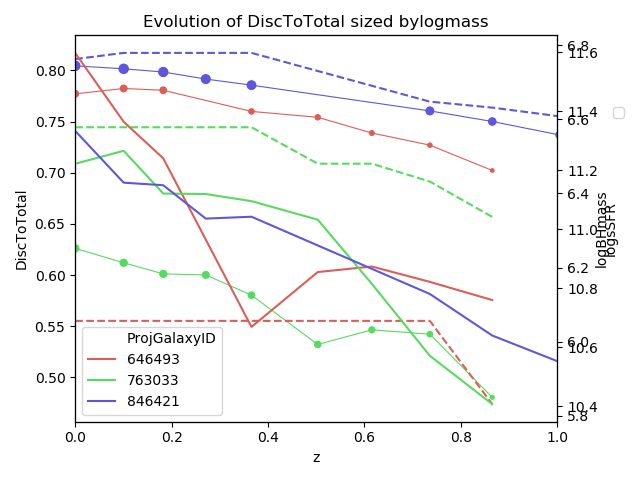
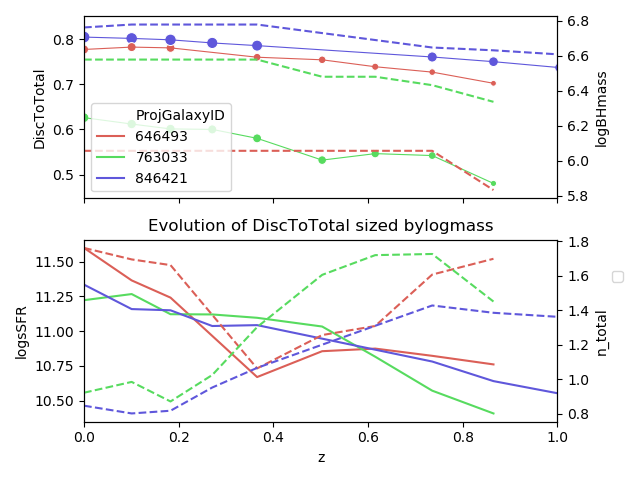
Added in pictorial evolution

diff --git a/EvolutionofGalaxies.py b/EvolutionofGalaxies.py
@@ -14,9 +14,18 @@ from mpl_toolkits.mplot3d import Axes3D
 from matplotlib import cm
 from mpl_toolkits.mplot3d import axes3d
 from scipy.interpolate import griddata 
+from matplotlib.offsetbox import OffsetImage, AnnotationBbox
+from matplotlib.cbook import get_sample_data
+import scipy
+import pylab
+
 
 #sns.set_style('whitegrid')
-
+def logx(x):
+    if x !=0:
+        return np.log10(x)
+    else:
+        return 0
 
 def sigmaclip(image, sigma, box_size):
     #shows relative fluctuations in pixel intensities
@@ -416,31 +425,67 @@ def subplothistograms(df, param1, param2, param3, param4, param5, param6):
     plt.show()
 
 def evolutionplot(df, param, param_size, param2):
-    fig, ax=plt.subplots()
-
-    sns.scatterplot(x='z',y=param, hue='ProjGalaxyID',data=df, size=param_size, palette=sns.color_palette('hls', df.ProjGalaxyID.nunique()), legend=False, ax=ax)
-    sns.lineplot(x='z',y=param, hue='ProjGalaxyID',data=df, palette=sns.color_palette('hls', df.ProjGalaxyID.nunique()), ax=ax,legend=False, linewidth=0.8)
-    ax2=ax.twinx()
-    sns.lineplot(x='z',y=param2, hue='ProjGalaxyID',data=df, palette=sns.color_palette('hls', df.ProjGalaxyID.nunique()),  ax=ax2)
+    fig, (ax1,ax2)=plt.subplots(2,1, sharex=True)
+    #plt.subplot(211)
+    sns.scatterplot(x='z',y=param, hue='ProjGalaxyID',data=df, size=param_size, palette=sns.color_palette('hls', df.ProjGalaxyID.nunique()), legend=False, ax=ax1)
+    sns.lineplot(x='z',y=param, hue='ProjGalaxyID',data=df, palette=sns.color_palette('hls', df.ProjGalaxyID.nunique()), ax=ax1,legend=False, linewidth=0.8)
+    ax0=ax1.twinx()
+    sns.lineplot(x='z',y=param2, hue='ProjGalaxyID',data=df, palette=sns.color_palette('hls', df.ProjGalaxyID.nunique()),  ax=ax0)
     for i in range(df.ProjGalaxyID.nunique()):
-        ax2.lines[i].set_linestyle('--')
-    ax3=ax.twinx()
-    sns.lineplot(x='z',y='logsSFR', hue='ProjGalaxyID',data=df, palette=sns.color_palette('hls', df.ProjGalaxyID.nunique()),  ax=ax3, legend=False)
-
+        ax0.lines[i].set_linestyle('--')
+    #plt.subplot(212)
+    sns.lineplot(x='z',y='logsSFR', hue='ProjGalaxyID',data=df, palette=sns.color_palette('hls', df.ProjGalaxyID.nunique()), ax=ax2, legend=False)
+    ax3=ax2.twinx()
+    sns.lineplot(x='z',y='n_total', hue='ProjGalaxyID',data=df, palette=sns.color_palette('hls', df.ProjGalaxyID.nunique()),  ax=ax3, legend=True)
+    for i in range(df.ProjGalaxyID.nunique()):
+        ax3.lines[i].set_linestyle('--')
 
     plt.legend(bbox_to_anchor=(1.1,0.8), loc='center left')
     plt.xlim(0,1)
     plt.title('Evolution of '+param+' sized by'+param_size)
-    plt.tight_layout()
+    #plt.tight_layout()
     plt.savefig('evolvinggalaxygraphbinmainbranch'+sim_name+'/evolution of'+param+'and'+param2+'.png')
     
     plt.show()
 
-def logx(x):
-    if x !=0:
-        return np.log10(x)
-    else:
-        return 0
+def specificgalaxyplot(df, galaxyid, param1, param2, param3, param4):
+    df2=df[df.ProjGalaxyID==galaxyid]
+
+    x = df2['z'].tolist()
+    y_image=np.zeros(df2.z.nunique())
+    y1= df2[param1].tolist()
+    y2 = df2[param2].tolist()
+    y3 = df2[param3].tolist()
+    y4 = df2[param4].tolist()
+    paths = df2['filename'].tolist()
+
+    fig, (ax1,ax0) = plt.subplots(2,1, gridspec_kw={'height_ratios': [4, 1]}, sharex=True)
+    ax3=ax1.twinx()
+    ax4=ax1.twinx()
+    ax2=ax3.twinx()
+    ax1.plot(x, y1,  'r', label=param1)
+    ax2.plot(x, y2,  'b--', label=param2)
+    ax3.plot(x, y3,  'g--', label=param3)
+    ax4.plot(x, y4,  'y', label=param4)
+    ax1.set_ylabel(param1),ax2.set_ylabel(param2),ax3.set_ylabel(param3),ax4.set_ylabel(param4) 
+    lines_labels = [ax.get_legend_handles_labels() for ax in fig.axes]
+    lines, labels = [sum(lol, []) for lol in zip(*lines_labels)]
+    fig.legend(lines, labels, loc='upper center')
+    for x0, y0, path in zip(x, y_image,paths):
+        ab = AnnotationBbox(getImage(path), (x0, y0), frameon=False)
+        ax0.add_artist(ab)
+    ax0.yaxis.set_visible(False)   
+    ax0.set_ylim(-0.01,0.01) 
+    ax0.set_xlabel('z')
+    #ax.plot(x, y, ax)
+    plt.subplots_adjust(hspace=0)
+    plt.title('Pictorial Evolution of Galaxy'+str(galaxyid))
+    plt.draw()
+    plt.savefig('evolvinggalaxygraphbinmainbranch'+sim_name+'/PictorialEvolutionGalaxy'+str(galaxyid)+'.png')
+    plt.show()
+
+def getImage(path):
+    return OffsetImage(plt.imread('evolvinggalaxyimagebinmainbranchRecalL0025N0752/'+path), zoom=0.15)
 
 def plotbulgetodisc(df, sim_name):
     print(df.shape)
@@ -457,16 +502,18 @@ def plotbulgetodisc(df, sim_name):
     df['num']= df.groupby('ProjGalaxyID')['ProjGalaxyID'].transform('count')
     #df['num']=df.ProjGalaxyID.value_counts()
     print(df.shape)
-    df=df[df.num>7]
+    #df=df[df.num>7]
     #dftotal work
     print(df.ProjGalaxyID.nunique())
     df['BulgeToTotal']=df.apply(lambda x: (1-x.DiscToTotal), axis=1)
     df['logBHmass']=df.apply(lambda x: np.log10(x.BHmass), axis=1)
     df['logmass']=df.apply(lambda x: np.log10(x.mass), axis=1)
     df['sSFR']=df.apply(lambda x: (x.SFR/x.mass), axis=1)
-    df['logsSFR']=df.apply(lambda x: 1-logx(x.sSFR), axis=1)
+    df['logsSFR']=df.apply(lambda x: logx(x.sSFR), axis=1)
     df['dtototal']=df.apply(lambda x: (1-x.btdintensity), axis=1)
-    evolutionplot(df, 'DiscToTotal', 'logmass', 'logBHmass')
+    specificgalaxyplot(df, 793490, 'BulgeToTotal', 'n_total', 'logsSFR', 'logBHmass')
+
+    #evolutionplot(df, 'BulgeToTotal', 'logmass', 'logBHmass')
 
 
 
